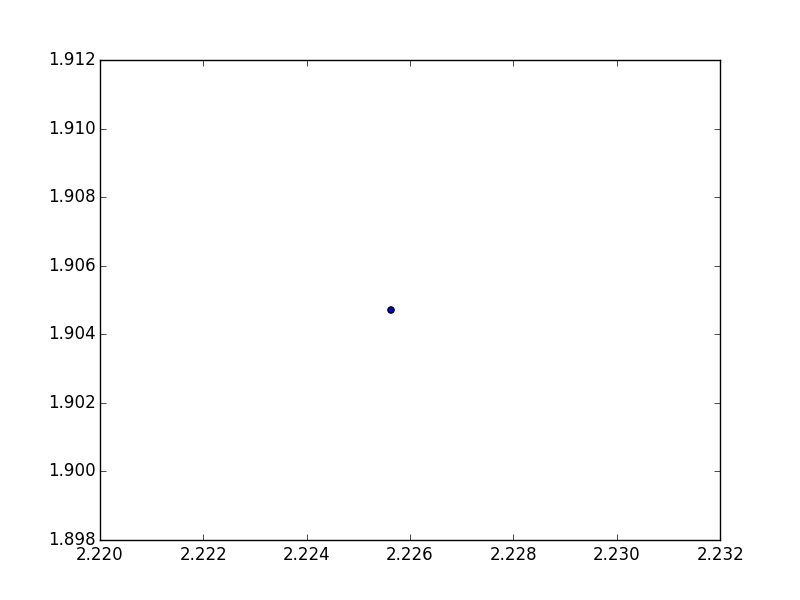
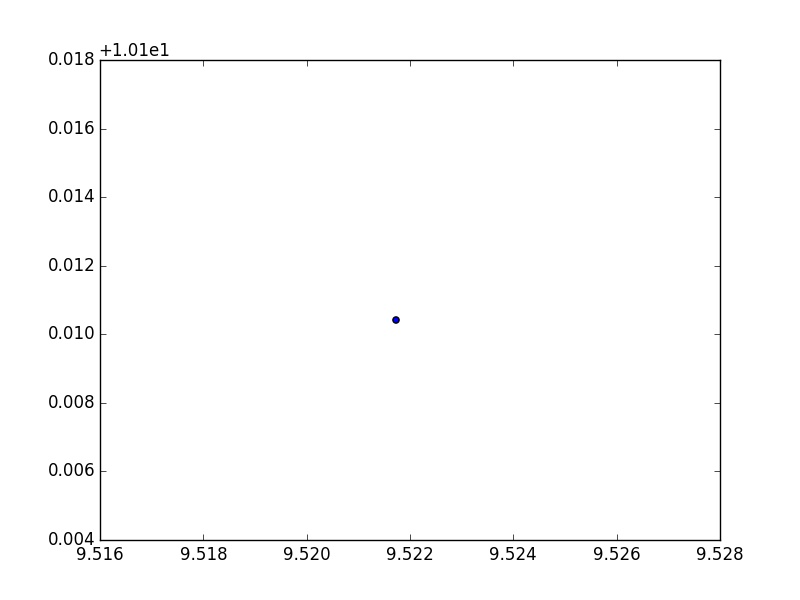
modificados

diff --git a/ev3/gra/gd.py b/ev3/gra/gd.py
@@ -4,7 +4,7 @@ import matplotlib.pyplot as pl
 import numpy as np
 
 ax = pl.gca()
-n = 1 ##1024
+n = 10 ##1024
 x = np.random.normal(n) ##(0,1,n)
 y = np.random.normal(n) ##(0,1,n)
 
